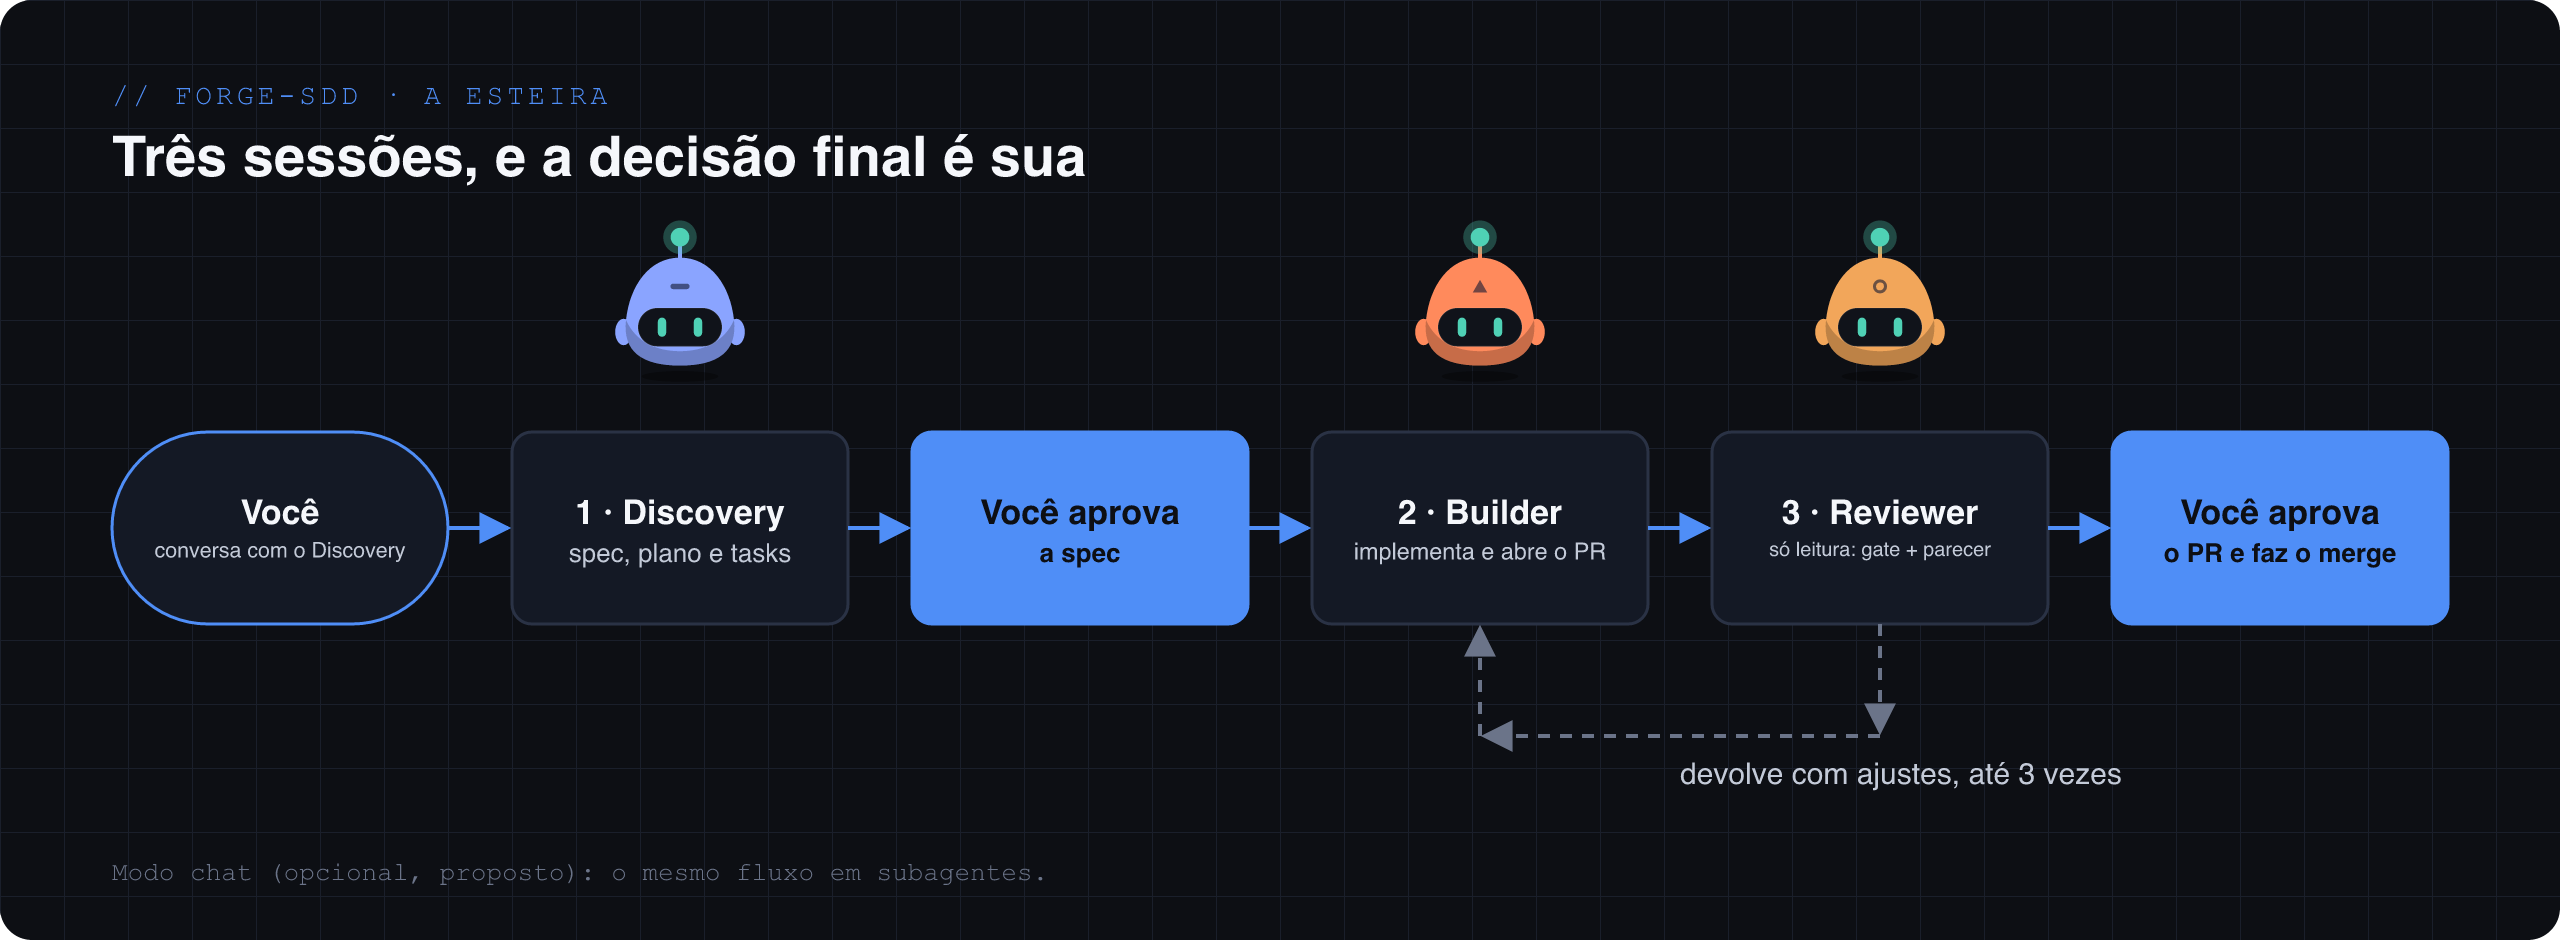
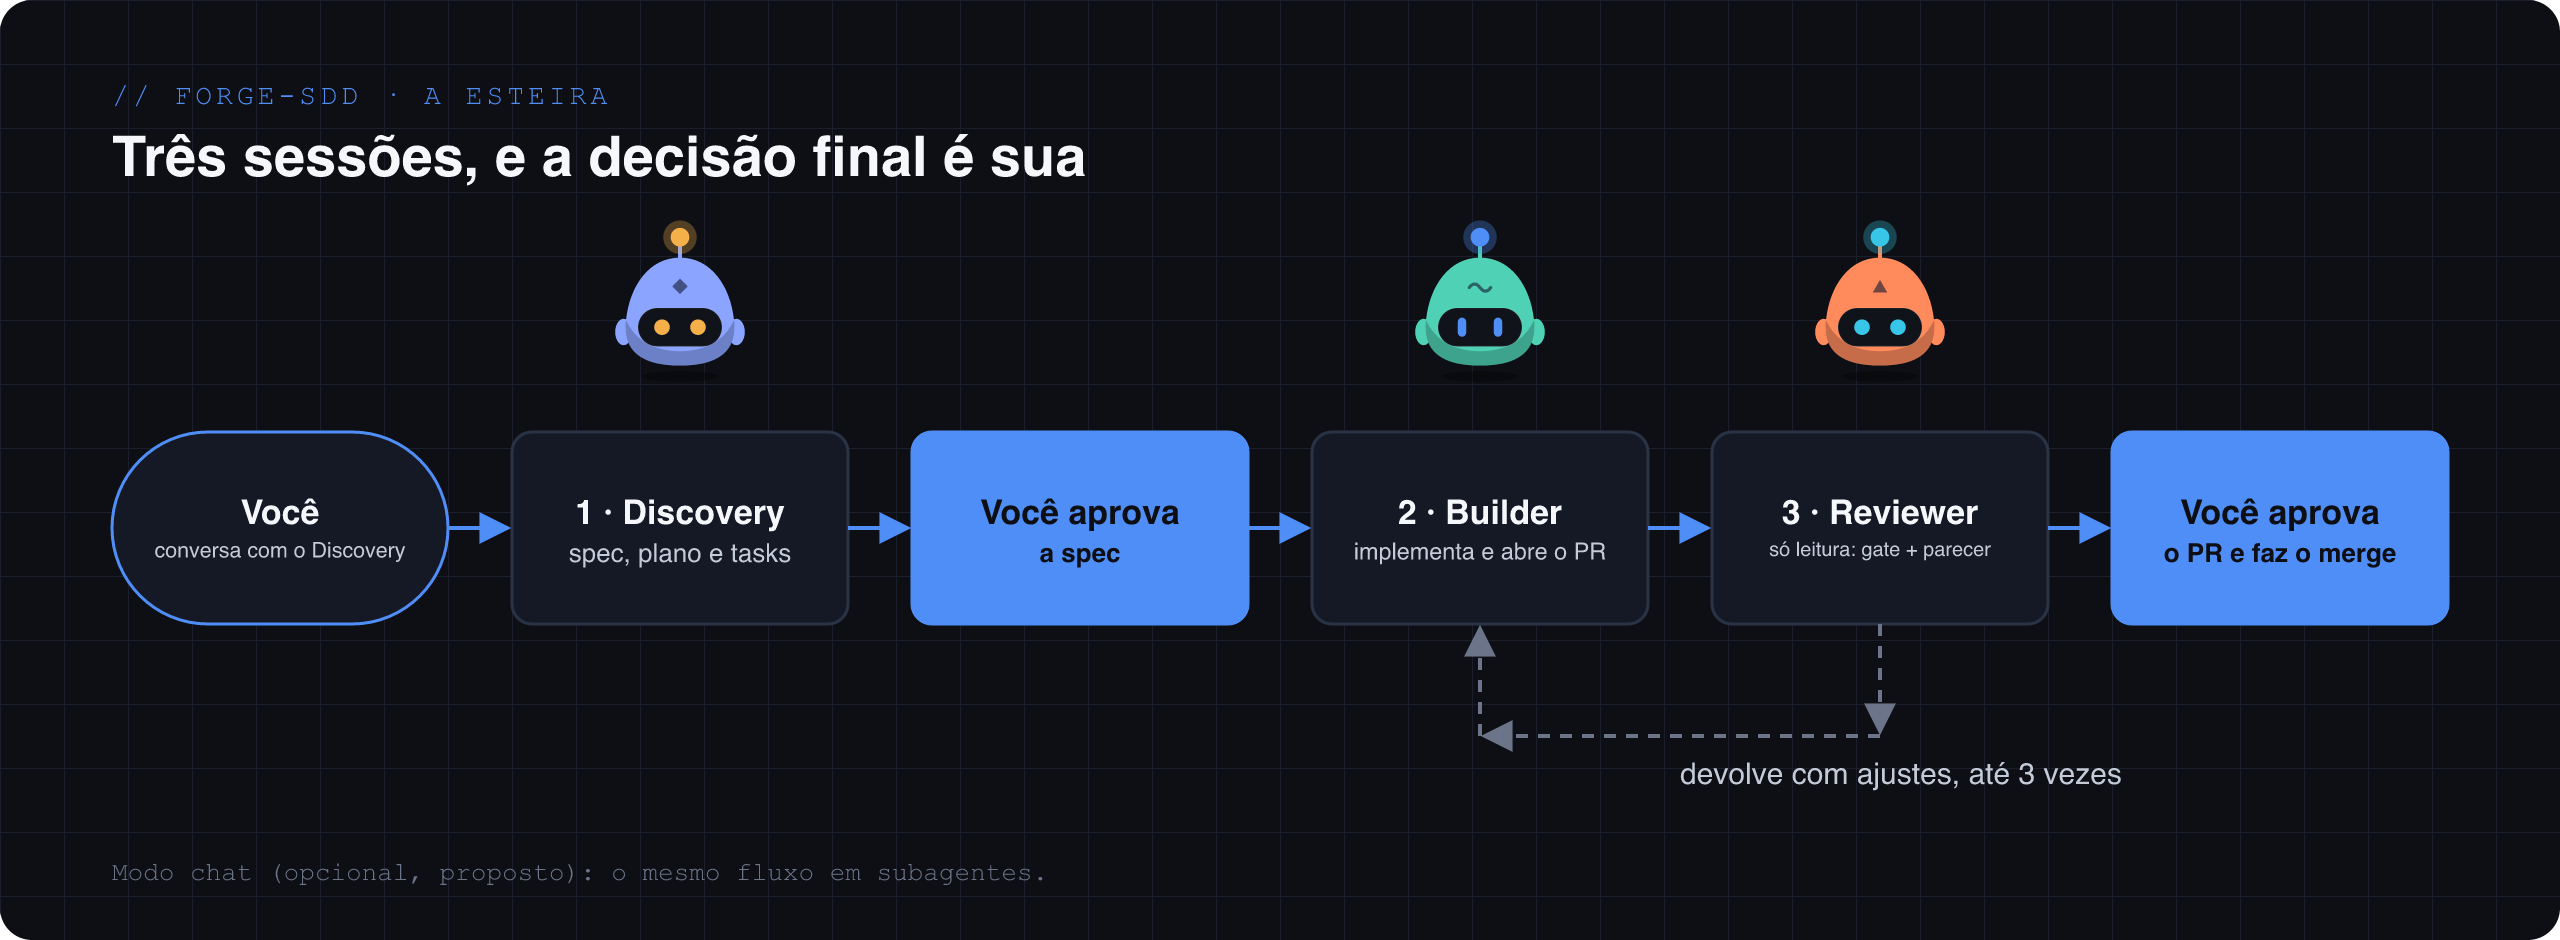
fix(104): bots dos diagramas do README com cores, marcas e estados da LP
Discovery #8aa4ff diamond (approval), Builder #4fd1b5 wave (working),
Reviewer #ff8a5c tri (searching). bots.py ganha a marca diamond, ESTADOS
(orbe e olhos) e validacao da entrada. Spec e criterios P-25 atualizados.

Claude-Session: https://claude.ai/code/session_01SPFA8upV4qiJJ5Y1pRT74k

diff --git a/docs/diagramas/bots.py b/docs/diagramas/bots.py
@@ -1,6 +1,6 @@
 #!/usr/bin/env python3
 """Injeta os bots do Forge (mesmo desenho de site/src/components/MascotFallbackSvg.astro) num SVG do diagram-studio e regrava o PNG.
-Uso: uv run --with resvg-py docs/diagramas/bots.py <svg> <largura> <cor:marca:cx:y[:escala]>..."""
+Uso: uv run --with resvg-py docs/diagramas/bots.py <svg> <largura> <cor:marca:estado:cx:y[:escala]>..."""
 import sys, re
 from pathlib import Path
 import resvg_py
@@ -9,10 +9,17 @@ MARCAS = {
  "bar": '<rect x="52" y="49.7" width="16" height="4.6" rx="2.3" fill="rgba(18,24,48,0.6)"/>',
  "ring": '<circle cx="60" cy="52" r="4.6" fill="none" stroke="rgba(18,24,48,0.6)" stroke-width="2.6"/>',
  "wave": '<path d="M51 53 Q55.5 47 60 53 Q64.5 59 69 53" fill="none" stroke="rgba(18,24,48,0.6)" stroke-width="2.6" stroke-linecap="round"/>',
+ "diamond": '<polygon points="60,45.5 66.5,52 60,58.5 53.5,52" fill="rgba(18,24,48,0.6)"/>',
  "tri": '<polygon points="60,46.5 66,57 54,57" fill="rgba(18,24,48,0.6)"/>',
 }
-def bot(cor, marca, cx, y, esc=0.6):
-    orb = "#4fd1b5"
+# estados da LP (STATE_DEFS de docs/index.html): cor do orbe e forma dos olhos
+ESTADOS = {"approval": ("#f5b04a", "round"), "working": ("#4f8ef7", "cap"), "searching": ("#38c6e8", "round")}
+OLHOS = {
+ "cap": '<rect x="41.5" y="78" width="7" height="16" rx="3.5"/><rect x="71.5" y="78" width="7" height="16" rx="3.5"/>',
+ "round": '<circle cx="45" cy="86" r="6.5"/><circle cx="75" cy="86" r="6.5"/>',
+}
+def bot(cor, marca, estado, cx, y, esc=0.6):
+    orb, olhos = ESTADOS[estado]
     return f'''<g transform="translate({cx-60*esc:.1f},{y}) scale({esc})">
 <ellipse cx="60" cy="127" rx="32" ry="4.5" fill="rgba(0,0,0,0.38)"/>
 <ellipse cx="13" cy="90" rx="7" ry="11" fill="{cor}"/><ellipse cx="107" cy="90" rx="7" ry="11" fill="{cor}"/>
@@ -22,11 +29,29 @@ def bot(cor, marca, cx, y, esc=0.6):
 <path d="M15 80 C12 106 28 118 60 118 C92 118 108 106 105 80 C97 98 80 106 60 106 C40 106 23 98 15 80 Z" fill="rgba(0,0,0,0.22)"/>
 {MARCAS[marca]}
 <rect x="25" y="70" width="70" height="32" rx="16" fill="#10131a" stroke="rgba(255,255,255,0.1)"/>
-<g fill="{orb}"><rect x="41.5" y="78" width="7" height="16" rx="3.5"/><rect x="71.5" y="78" width="7" height="16" rx="3.5"/></g>
+<g fill="{orb}">{OLHOS[olhos]}</g>
 </g>'''
+def erro(msg):
+    sys.exit(f"erro: {msg}")
+def parse(arg):
+    a = arg.split(":")
+    if len(a) not in (5, 6):
+        erro(f"bot invalido {arg!r}: use cor:marca:estado:cx:y[:escala]")
+    cor, marca, estado = a[0], a[1], a[2]
+    if not re.fullmatch(r"#[0-9a-fA-F]{6}", cor):
+        erro(f"cor invalida {cor!r}: use #rrggbb")
+    if marca not in MARCAS:
+        erro(f"marca desconhecida {marca!r}: use {', '.join(MARCAS)}")
+    if estado not in ESTADOS:
+        erro(f"estado desconhecido {estado!r}: use {', '.join(ESTADOS)}")
+    try:
+        num = [float(v) for v in a[3:]]
+    except ValueError:
+        erro(f"posicao ou escala nao numerica em {arg!r}")
+    return (cor, marca, estado, *num)
 svg = Path(sys.argv[1]); larg = int(sys.argv[2])
 s = svg.read_text()
-g = "".join(bot(*(lambda a: (a[0], a[1], float(a[2]), float(a[3]), float(a[4]) if len(a) > 4 else 0.6))(x.split(":"))) for x in sys.argv[3:])
+g = "".join(bot(*parse(x)) for x in sys.argv[3:])
 s = s.replace("</svg>", f'<g aria-hidden="true">{g}</g></svg>')
 svg.write_text(s)
 svg.with_suffix(".png").write_bytes(bytes(resvg_py.svg_to_bytes(svg_string=s, width=larg * 2)))

diff --git a/sdd/discovery/104-pipeline-em-subagentes/fixes/fix-104-15-bots-com-cores-da-lp.md b/sdd/discovery/104-pipeline-em-subagentes/fixes/fix-104-15-bots-com-cores-da-lp.md
@@ -21,6 +21,14 @@ Estado atual nos SVGs (ordem do fluxo, lida em `<ellipse cx="13" ... fill=...>` 
 | Builder | `#ff8a5c` `tri` | `#4fd1b5` `wave` |
 | Reviewer | `#f2a65a` `ring` (do Líder da LP antiga) | `#ff8a5c` `tri` |
 
+Estado (orbe e olhos): a LP define o estado padrão de cada sessão (`defaultState` em `docs/index.html` e `STATE_DEFS`, ~linha 1600). O `bots.py` fixava orbe e olhos em `#4fd1b5` com olhos cápsula para todos os bots, o que não é cor de nenhum estado da LP.
+
+| Papel | Estado | Orbe | Olhos |
+|---|---|---|---|
+| Discovery | `approval` | `#f5b04a` | `round` (círculos `cx=45`/`75 cy=86 r=6.5`) |
+| Builder | `working` | `#4f8ef7` | `cap` (retângulos `x=41.5`/`71.5 y=78 w=7 h=16 rx=3.5`) |
+| Reviewer | `searching` | `#38c6e8` | `round` |
+
 `docs/diagramas/bots.py` tem `MARCAS` com `bar`, `ring`, `wave`, `tri`; não tem `diamond`. O `.astro` (`site/src/components/MascotFallbackSvg.astro`, linha 65) desenha `diamond` como `<polygon points="60,45.5 66.5,52 60,58.5 53.5,52" fill="rgba(18,24,48,0.6)" />`.
 
 ## Feature Correlacionada
@@ -40,13 +48,13 @@ Estado atual nos SVGs (ordem do fluxo, lida em `<ellipse cx="13" ... fill=...>` 
 
 ## Correção
 
-1. `docs/diagramas/bots.py`: adicionar em `MARCAS` a chave `diamond` com `<polygon points="60,45.5 66.5,52 60,58.5 53.5,52" fill="rgba(18,24,48,0.6)"/>`. Não remover as outras marcas.
+1. `docs/diagramas/bots.py`: adicionar em `MARCAS` a chave `diamond` com `<polygon points="60,45.5 66.5,52 60,58.5 53.5,52" fill="rgba(18,24,48,0.6)"/>`. Não remover as outras marcas. Acrescentar `ESTADOS` (`approval`, `working`, `searching`, com orbe e olhos como na tabela de estado) e o argumento `estado` por bot: `cor:marca:estado:cx:y[:escala]`. A entrada é validada (cor `^#[0-9a-fA-F]{6}$`, marca em `MARCAS`, estado em `ESTADOS`); valor desconhecido encerra com mensagem e código diferente de 0.
 2. Regerar cada diagrama (plugin 0.2.0; largura 1280; os JSON de `docs/diagramas/` não mudam, os bots são injetados depois):
    - `uv run ~/.claude/plugins/cache/diagram-studio/diagram-studio/0.2.0/scripts/diagrama.py docs/diagramas/<nome>.json --sem-assinatura --saida docs/img/<nome>`
    - `uv run --with resvg-py docs/diagramas/bots.py docs/img/<nome>.svg 1280 <bots>`
 3. Bots, sempre na ordem do fluxo (Discovery, Builder, Reviewer):
-   - `esteira-3-sessoes` (escala 0.6, y 112; posições iguais às atuais): `"#8aa4ff:diamond:340:112" "#4fd1b5:wave:740:112" "#ff8a5c:tri:940:112"`
-   - `agentes` (escala 0.5, y 168; posições iguais às atuais): `"#8aa4ff:diamond:240:168:0.5" "#4fd1b5:wave:640:168:0.5" "#ff8a5c:tri:1040:168:0.5"`
+   - `esteira-3-sessoes` (escala 0.6, y 112; posições iguais às atuais): `"#8aa4ff:diamond:approval:340:112" "#4fd1b5:wave:working:740:112" "#ff8a5c:tri:searching:940:112"`
+   - `agentes` (escala 0.5, y 168; posições iguais às atuais): `"#8aa4ff:diamond:approval:240:168:0.5" "#4fd1b5:wave:working:640:168:0.5" "#ff8a5c:tri:searching:1040:168:0.5"`
    (cx = translate x atual + 60 vezes a escala: 304+36, 704+36, 904+36; 210+30, 610+30, 1010+30.)
 4. O PNG sai a 2560 px de largura (1280 x 2), como hoje. `README.md` referencia as imagens por caminho e o `alt` não cita cor: não muda.
 5. Abrir cada PNG e conferir os três bots (Discovery azul com losango, Builder verde-água com onda, Reviewer laranja com triângulo, sem sobreposição com o texto).
@@ -101,8 +109,25 @@ for n in esteira-3-sessoes agentes; do
   test "$(grep -oF '#f2a65a' docs/img/$n.svg | wc -l)" -eq 0
   test "$(grep -oF '<rect x="52" y="49.7" width="16" height="4.6" rx="2.3"' docs/img/$n.svg | wc -l)" -eq 0
   test "$(grep -oF '<circle cx="60" cy="52" r="4.6" fill="none"' docs/img/$n.svg | wc -l)" -eq 0
+  # P-25: orbes dos estados da LP presentes (3 de cada: halo, orbe e olhos de cada bot)
+  test "$(grep -oF '#f5b04a' docs/img/$n.svg | wc -l)" -eq 3
+  test "$(grep -oF '#38c6e8' docs/img/$n.svg | wc -l)" -eq 3
+  # o orbe (círculo da antena) tem a cor do estado: exatamente um por cor, e #4fd1b5 só no corpo do Builder
+  test "$(grep -oF 'r="7.8" fill="#f5b04a"' docs/img/$n.svg | wc -l)" -eq 1
+  test "$(grep -oF 'r="7.8" fill="#4f8ef7"' docs/img/$n.svg | wc -l)" -eq 1
+  test "$(grep -oF 'r="7.8" fill="#38c6e8"' docs/img/$n.svg | wc -l)" -eq 1
+  # negativo: nenhum bot usa o orbe antigo #4fd1b5
+  test "$(grep -oF 'r="7.8" fill="#4fd1b5"' docs/img/$n.svg | wc -l)" -eq 0
+  # olhos: 2 cápsulas (Builder) e 4 círculos (Discovery e Reviewer)
+  test "$(grep -oF '<rect x="41.5" y="78" width="7" height="16" rx="3.5"/>' docs/img/$n.svg | wc -l)" -eq 1
+  test "$(grep -oF '<circle cx="45" cy="86" r="6.5"/>' docs/img/$n.svg | wc -l)" -eq 2
   # PNG com o dobro da largura do SVG (1280 x 2)
   file docs/img/$n.png | grep -F '2560 x' >/dev/null
+done
+# negativo: o bots.py recusa estado, marca e cor desconhecidos (código diferente de 0)
+cp docs/img/agentes.svg /tmp/p25-bots.svg
+for a in "#8aa4ff:tri:nada:1:1" "#8aa4ff:nada:working:1:1" "nada:tri:working:1:1"; do
+  if uv run --with resvg-py docs/diagramas/bots.py /tmp/p25-bots.svg 1280 "$a" >/dev/null 2>&1; then exit 1; fi
 done
 # negativo: Edição Missões, README e JSON de origem intactos
 test "$(git diff --name-only origin/main -- docs/edicao docs/design/edicao-missoes README.md npm/README.md docs/diagramas/esteira-3-sessoes.json docs/diagramas/agentes.json | wc -l)" -eq 0
